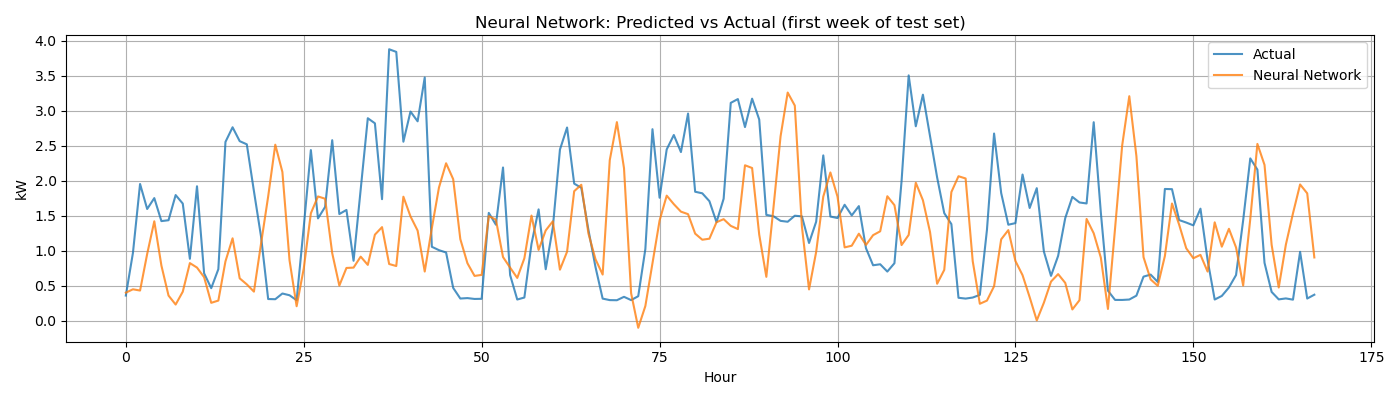
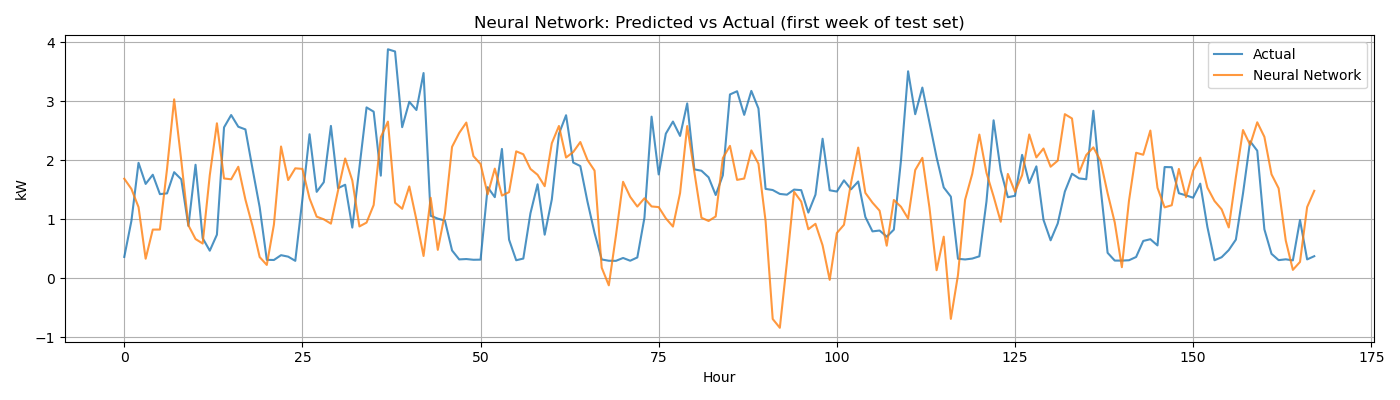
Add updated report.tex and figures

diff --git a/projects/final_project_7/report.tex b/projects/final_project_7/report.tex
@@ -1,0 +1,249 @@
+\documentclass[11pt]{article}
+
+\usepackage[margin=1in]{geometry}
+\usepackage{amsmath, amssymb}
+\usepackage{graphicx}
+\usepackage{caption}
+\usepackage{subcaption}
+\usepackage{enumitem}
+\usepackage{hyperref}
+\usepackage{fancyhdr}
+\usepackage{titlesec}
+\usepackage{booktabs}
+\usepackage{float}
+\usepackage[section]{placeins}
+\pagestyle{fancy}
+\fancyhf{}
+\rhead{ML Project 7 Report}
+\cfoot{\thepage}
+
+\titleformat{\section}{\large\bfseries}{\thesection}{1em}{}
+\titleformat{\subsection}{\normalsize\bfseries}{\thesubsection}{1em}{}
+\setlength{\parskip}{3pt}
+\setlength{\floatsep}{6pt}
+\setlength{\textfloatsep}{6pt}
+\setlength{\intextsep}{6pt}
+
+
+\title{\vspace{-1.5cm}\textbf{Project 7: Forecasting Electricity Load\\
+with Time-Based Fourier Features}}
+\author{Maria Akhankova, Leon Lorenz \\
+Applied Machine Learning in Python - LMU \\
+\texttt{M.Akhankova@campus.lmu.de, Leon.Lorenz@campus.lmu.de}}
+\date{\today}
+
+\begin{document}
+
+\maketitle
+\thispagestyle{fancy}
+
+
+\section{Task Overview}
+
+Electricity consumption follows strong periodic patterns shaped by daily routines, weekly schedules, and seasonal cycles. The goal is to predict hourly electricity demand $y_t$ (in kilowatts) using only calendar time:
+\[
+\hat{y}_t = f\bigl(\text{hour}(t),\ \text{dayofweek}(t),\ 
+\text{dayofyear}(t)\bigr)
+\]
+
+\textbf{Dataset.} We use the UCI Individual Household Electric Power Consumption dataset, containing minute-level readings from a single household in France (December 2006 - November 2010). We focus on \texttt{Global\_active\_power} (kW), resampled to hourly resolution, yielding 34{,}168 observations after removing missing values.
+
+\textbf{Challenges.} Time is a circular variable (hour 23 and hour 0 are adjacent but numerically far apart) requiring special encoding. The dataset also contains unpredictable spikes from individual appliance usage and temporal ordering must be respected in the train/test split to avoid data leakage.
+
+
+\section{Methods}
+
+
+\subsection{Fourier Feature Encoding}
+
+We transform each time variable into $K$ sine/cosine pairs. For hour of day (period $T=24$):
+\[
+\phi_{\text{hour}}(t) = \Bigl[
+\sin\!\tfrac{2\pi\,\text{hour}(t)}{24},\
+\cos\!\tfrac{2\pi\,\text{hour}(t)}{24},\
+\ldots,\
+\sin\!\tfrac{2\pi K\,\text{hour}(t)}{24},\
+\cos\!\tfrac{2\pi K\,\text{hour}(t)}{24}
+\Bigr]^\top
+\]
+Analogously for the day of week ($T=7$) and the day of year ($T=365$). With 
+$K_{\text{hour}}=5$, $K_{\text{week}}=3$, $K_{\text{year}}=3$, the 
+feature matrix has $2\times(5+3+3)=22$ columns.
+
+\subsection{Linear Models}
+
+\textbf{OLS} minimizes squared residuals without regularization:
+$\min_{\mathbf{w}} \|\mathbf{y} - \mathbf{X}\mathbf{w}\|^2$, whereas \textbf{Ridge Regression} adds a penalty $\ell_2$ to prevent overfitting at high $K$:
+\[
+\min_{\mathbf{w}} \quad \|\mathbf{y} - \mathbf{X}\mathbf{w}\|^2 
++ \alpha \|\mathbf{w}\|^2, \qquad \alpha = 1.0
+\]
+
+\subsection{Shallow Neural Network}
+
+We implement an MLP with two hidden layers (ReLU activations), trained with mini-batch gradient descent and MSE loss:
+\[
+\mathcal{L} = \frac{1}{2N}\sum_{i=1}^{N}(y_i - \hat{y}_i)^2
+\]
+Architecture: $22 \to 64 \to 32 \to 1$. He initialization, 
+500 epochs, batch size 256, learning rate 0.001.
+
+\subsection{Experimental Setup}
+
+Data is split chronologically: 80\% training (27{,}334 samples), 20\% test (6{,}834 samples). Metrics:
+\[
+\text{RMSE} = \sqrt{\tfrac{1}{N}\textstyle\sum(y_i-\hat{y}_i)^2}
+\qquad
+\text{MAE} = \tfrac{1}{N}\textstyle\sum|y_i-\hat{y}_i|
+\]
+
+
+\section{Experiments and Results}
+
+
+\subsection{Effect of Frequency Components \texorpdfstring{$K$}{K}}
+
+\begin{figure}[H]
+    \centering
+    \includegraphics[width=0.98\textwidth]{figures/rmse_vs_K.png}
+    \caption{RMSE vs.\ $K$ for OLS and Ridge (hour-only features).}
+    \label{fig:rmse_k}
+\end{figure}
+
+As shown in Figure~\ref{fig:rmse_k}, RMSE drops significantly from $K=1$ to $K=5$, then plateaus. OLS and Ridge perform identically, indicating no overfitting with hour-only features.
+
+\subsection{Model Comparison}
+
+\begin{table}[H]
+\centering
+\footnotesize
+\setlength{\tabcolsep}{6pt}
+\caption{Test set performance for the main Fourier-feature setup.}
+\begin{tabular}{lcc}
+\toprule
+\textbf{Model} & \textbf{RMSE} & \textbf{MAE} \\
+\midrule
+OLS         & 0.6396 & 0.4902 \\
+Ridge       & 0.6396 & 0.4902 \\
+Shallow MLP & 0.9056 & 0.7059 \\
+\bottomrule
+\end{tabular}
+\label{tab:results}
+\end{table}
+
+\subsection{Predictions vs.\ Actual Values}
+
+\begin{figure}[H]
+    \centering
+    \begin{subfigure}[b]{0.47\textwidth}
+        \includegraphics[width=\textwidth]{figures/predictions_vs_actual.png}
+        \caption{Ridge regression}
+    \end{subfigure}
+    \hfill
+    \begin{subfigure}[b]{0.47\textwidth}
+        \includegraphics[width=\textwidth]{figures/nn_predictions_vs_actual.png}
+        \caption{Shallow MLP}
+    \end{subfigure}
+    \caption{Predicted vs.\ actual consumption, first week of test set.}
+    \label{fig:predictions}
+\end{figure}
+
+\subsection{Residual Analysis}
+
+\begin{figure}[H]
+    \centering
+    \begin{subfigure}[b]{0.47\textwidth}
+        \includegraphics[width=\textwidth]{figures/residuals_by_hour.png}
+        \caption{Ridge regression}
+    \end{subfigure}
+    \hfill
+    \begin{subfigure}[b]{0.47\textwidth}
+        \includegraphics[width=\textwidth]{figures/nn_residuals_by_hour.png}
+        \caption{Shallow MLP}
+    \end{subfigure}
+    \caption{Residuals by hour of day. Errors are centered around zero with no systematic hourly bias.}
+    \label{fig:residuals}
+\end{figure}
+
+\FloatBarrier
+
+
+
+\section{Autoregressive Features}
+
+We investigated whether the inclusion of autoregressive (AR) data improves forecasting accuracy: three time-lagged features (1 hour, 24 hours, 168 hours) and two moving averages (24 hours, 168 hours) were calculated solely based on past values to avoid data leakage. The results showed that this approach improves forecasting accuracy compared to using only Fourier features that reflect calendar time. A ridge regression model was trained using three feature sets: Fourier features only, AR features only, and a combination of both.
+
+\begin{figure}[H]
+\centering
+\begin{minipage}[c]{0.48\textwidth}
+    \centering
+    \footnotesize
+    \setlength{\tabcolsep}{5pt}
+    \begin{tabular}{lcc}
+    \toprule
+    \textbf{Feature set} & \textbf{RMSE} & \textbf{MAE} \\
+    \midrule
+    Fourier only & 0.6396 & 0.4898 \\
+    AR only      & 0.5235 & 0.3727 \\
+    Fourier + AR & 0.5049 & 0.3635 \\
+    \bottomrule
+    \end{tabular}
+    \captionof{table}{Test-set performance by feature set (Ridge, RMSE/MAE in kW).}
+    \label{tab:autoregressive}
+\end{minipage}%
+\hfill
+\begin{minipage}[c]{0.48\textwidth}
+    \centering
+    \includegraphics[width=\textwidth]{figures/ar_predictions_vs_actual.png}
+    \captionof{figure}{Predicted vs.\ actual consumption, Fourier + AR, first week of test set.}
+    \label{fig:ar_predictions}
+\end{minipage}
+\end{figure}
+
+Including AR features reduced the RMSE by approximately 18\% compared to using Fourier features alone. The combined approach yielded the best results, suggesting that past consumption data contain information that cannot be captured by calendar time alone.
+
+\subsection{Further Analysis}
+
+
+We additionally tested whether the same Fourier features can predict the three sub-metering signals, using Ridge regression as the best-performing model.
+
+
+
+\begin{figure}[H]
+\centering
+\begin{minipage}[c]{0.55\textwidth}
+    \centering
+    \footnotesize
+    \setlength{\tabcolsep}{4pt}
+    \begin{tabular}{lcccc}
+    \toprule
+    \textbf{Target} & \textbf{Model} & \textbf{K} & \textbf{RMSE} & \textbf{MAE} \\
+    \midrule
+    Sub-metering 1 & Ridge & 5  & 184.68 & 102.71 \\
+    Sub-metering 2 & Ridge & 1  & 204.43 & 91.22  \\
+    Sub-metering 3 & Ridge & 10 & 379.65 & 303.76 \\
+    \bottomrule
+    \end{tabular}
+    \captionof{table}{Best test-set performance for sub-metering prediction. RMSE and MAE are measured in Wh.}
+    \label{tab:submetering}
+\end{minipage}%
+\hfill
+\begin{minipage}[c]{0.4\textwidth}
+    \centering
+    \includegraphics[width=\textwidth]{figures/further_best_test_rmse_by_target.png}
+    \captionof{figure}{Best test RMSE for the three sub-metering targets.}
+    \label{fig:submetering_rmse}
+\end{minipage}
+\end{figure}
+
+Sub-metering 1 and 2 are easier to predict from calendar time than Sub-metering 3, suggesting stronger irregular appliance-specific behavior in the third target.
+
+
+
+\section{Discussion and Conclusion}
+
+Fourier features based on calendar time capture the key daily, weekly, and seasonal patterns of electricity consumption. OLS and Ridge methods yield nearly identical results (RMSE $=0.64$~kW), outperforming the shallow multilayer perceptron (RMSE $=0.91$~kW). This suggests that Fourier encoding sufficiently linearizes the periodic structure, rendering nonlinear modeling ineffective. Sub-metering analysis confirms that calendar-time features explain the structure even at the individual appliance level, although prediction accuracy varies significantly depending on the target variable.
+
+Incorporating autoregressive terms significantly improves the results obtained using calendar-time features alone: combining lagged and moving-average features with a Fourier basis reduces the Ridge method's root mean square error from $0.64$~kW to $0.50$~kW. This confirms that recent consumption history contains information beyond what is captured by timestamp-encoded data. It also highlights the primary limitation of the purely calendar-time-based approach: it cannot anticipate sudden load spikes caused by household appliances, meaning residual errors remain inevitable, even if the residuals do not exhibit hourly bias. Promising extensions include the use of weather data, extended MLP training with learning rate scheduling, and the application of gradient boosting or RNN models.
+
+\end{document}
